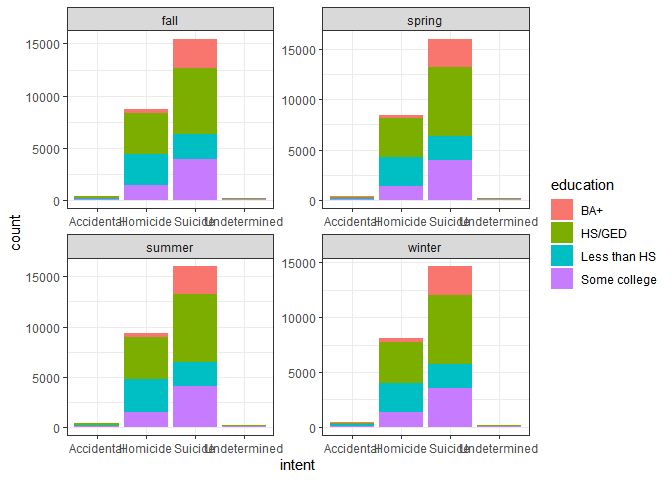
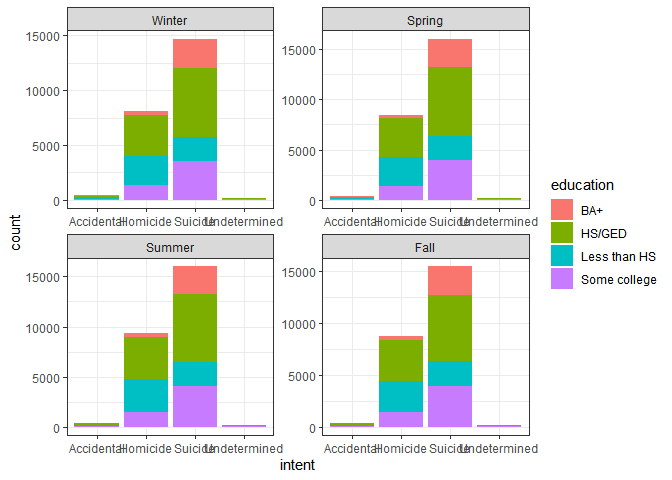
factor created

diff --git a/Week5/CaseStudy5/caseStudy5.html b/Week5/CaseStudy5/caseStudy5.html
@@ -262,15 +262,14 @@ ggplot(data = gunsData, aes(x = agegroup, fill = sex)) +
   ggtitle(&quot;Gun Deaths Male vs. Female&quot;) +
   theme_bw()</code></pre>
[1 lines of base64/hex data omitted]
-<pre class="r"><code>gunData_new$month &lt;- as.integer(gunData_new$month)
-season &lt;- gunData_new %&gt;%
+<pre class="r"><code>season &lt;- gunData_new %&gt;%
   filter(education != &quot;&quot;) %&gt;%
-  mutate(seasons =
-          case_when(
-            month &gt;= 3 &amp; month &lt;= 5 ~ &quot;spring&quot;,
-            month &gt;= 6 &amp; month &lt;= 8 ~ &quot;summer&quot;,
-            month &gt;= 9 &amp; month &lt;= 11 ~ &quot;fall&quot;,
-            month == 12 | month &lt;= 2 ~ &quot;winter&quot;))</code></pre>
+  mutate(seasons = as.factor(fct_collapse(month,
+    &quot;Spring&quot; = c(&quot;03&quot;, &quot;04&quot;, &quot;05&quot;),
+    &quot;Summer&quot; = c(&quot;06&quot;, &quot;07&quot;, &quot;08&quot;),
+    &quot;Fall&quot; = c(&quot;09&quot;, &quot;10&quot;, &quot;11&quot;),
+    &quot;Winter&quot; = c(&quot;12&quot;, &quot;01&quot;, &quot;02&quot;)
+  )))</code></pre>
 </div>
 <div id="graph-about-gun-deaths-for-different-education-levels-across-different-seasons" class="section level3">
 <h3>Graph about gun deaths for different education levels across different seasons</h3>
@@ -279,7 +278,7 @@ ggplot(season, aes(intent, fill = education)) +
   geom_bar() +
   facet_wrap(~seasons, scales = &quot;free&quot;) +
   theme_bw()</code></pre>
[2 lines of base64/hex data omitted]
 </div>
 <div id="graph-about-gun-deaths-for-different-races-for-different-seasons" class="section level3">
 <h3>Graph about gun deaths for different races for different seasons</h3>
@@ -289,7 +288,7 @@ ggplot(season, aes(seasons, fill = race)) +
   facet_wrap(~race, scales = &#39;free&#39;) +
   theme_bw() +
   theme(legend.position = &#39;none&#39;)</code></pre>
[2 lines of base64/hex data omitted]
 </div>
 
 

diff --git a/Week5/CaseStudy5/caseStudy5.md b/Week5/CaseStudy5/caseStudy5.md
@@ -113,15 +113,14 @@ ggplot(data = gunData_new, aes(x = age, fill = intent)) +
 ### Create Seasons based on months
 
 ```r
-gunData_new$month <- as.integer(gunData_new$month)
 season <- gunData_new %>%
   filter(education != "") %>%
-  mutate(seasons =
-          case_when(
-            month >= 3 & month <= 5 ~ "spring",
-            month >= 6 & month <= 8 ~ "summer",
-            month >= 9 & month <= 11 ~ "fall",
-            month == 12 | month <= 2 ~ "winter"))
+  mutate(seasons = as.factor(fct_collapse(month,
+    "Spring" = c("03", "04", "05"),
+    "Summer" = c("06", "07", "08"),
+    "Fall" = c("09", "10", "11"),
+    "Winter" = c("12", "01", "02")
+  )))
 ```
 ### Graph about gun deaths for different education levels across different seasons
 
